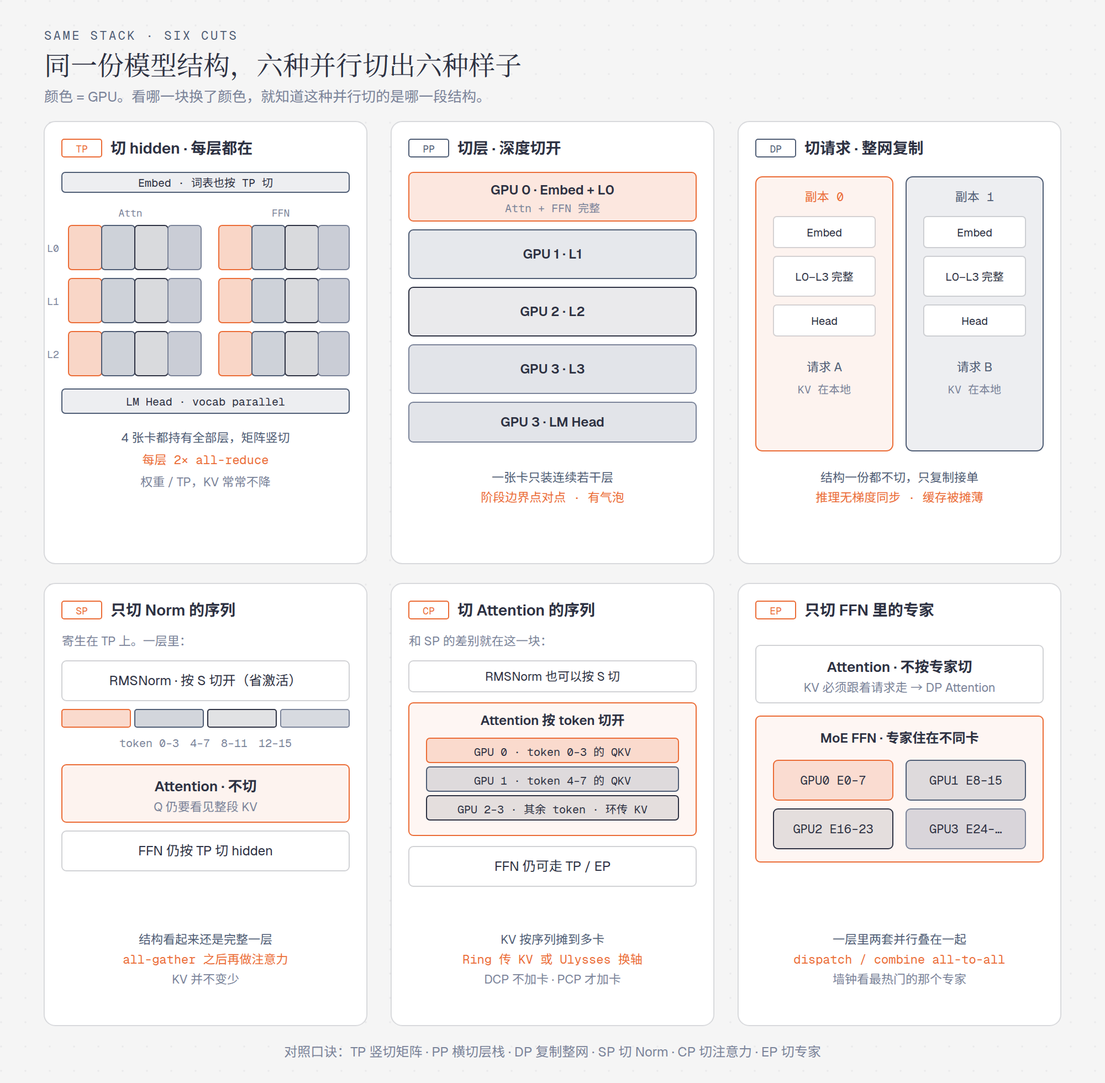
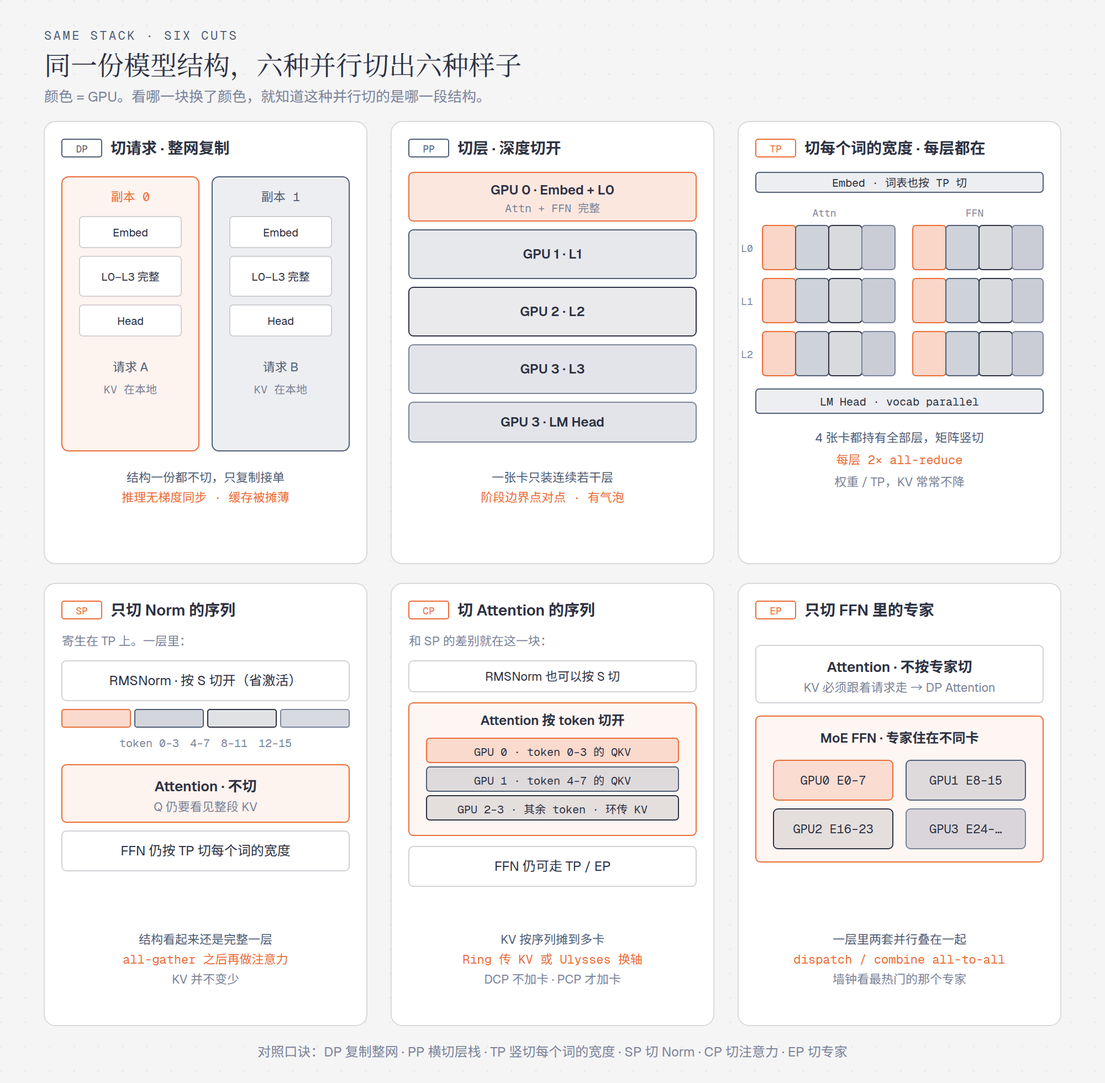
第6篇: 用 hidden/LayerNorm 图讲清 TP 与 SP，并改成由浅入深
开篇先解释每个词是一条长度为 H 的向量，再按 DP → PP → TP → SP → CP → EP 展开。新增示意图对照「TP 切宽度」和「SP 只切归一化看到的序列」。

diff --git a/diagrams/parallelism-moe/diagram-hidden-layernorm.html b/diagrams/parallelism-moe/diagram-hidden-layernorm.html
@@ -1,0 +1,104 @@
+<!DOCTYPE html>
+<html lang="zh">
+<head>
+  <meta charset="UTF-8">
+  <title>What hidden size is, and what LayerNorm sees</title>
+  <link href="https://fonts.googleapis.com/css2?family=Instrument+Serif:ital@0;1&family=Geist:wght@400;500;600&family=Geist+Mono:wght@400;500;600&display=swap" rel="stylesheet">
+  <style>
+    *,*::before,*::after{box-sizing:border-box;margin:0;padding:0}
+    body{background:#f5f5f5}.frame{width:1000px}svg{width:100%;display:block}
+  </style>
+</head>
+<body>
+  <div class="frame">
+    <svg viewBox="0 0 1000 820" xmlns="http://www.w3.org/2000/svg">
+      <defs>
+        <pattern id="dots" width="22" height="22" patternUnits="userSpaceOnUse"><circle cx="1" cy="1" r="0.9" fill="rgba(45,49,66,0.10)"/></pattern>
+        <marker id="ar" markerWidth="9" markerHeight="7" refX="7" refY="3.5" orient="auto"><polygon points="0 0, 9 3.5, 0 7" fill="#2d3142"/></marker>
+        <marker id="arA" markerWidth="9" markerHeight="7" refX="7" refY="3.5" orient="auto"><polygon points="0 0, 9 3.5, 0 7" fill="#eb6c36"/></marker>
+      </defs>
+      <rect width="100%" height="100%" fill="#f5f5f5"/>
+      <rect width="100%" height="100%" fill="url(#dots)" opacity="0.55"/>
+
+      <text x="40" y="36" fill="#4f5d75" font-size="11" font-family="'Geist Mono','Noto Sans CJK SC',monospace" letter-spacing="0.16em">HIDDEN SIZE · LAYER NORM</text>
+      <text x="40" y="70" fill="#2d3142" font-size="24" font-family="'Instrument Serif','Noto Serif CJK SC',serif">每个词是一条向量；归一化看着整段话</text>
+      <text x="40" y="96" fill="#7a8399" font-size="13" font-family="'Geist','Noto Sans CJK SC',sans-serif">TP 切的是这条向量有多宽；SP 切的是这段话有多长——而且只切归一化，不切注意力。</text>
+
+      <!-- ===== panel A: one token ===== -->
+      <rect x="40" y="116" width="920" height="268" rx="10" fill="#ffffff" stroke="rgba(45,49,66,0.16)"/>
+      <rect x="56" y="132" width="36" height="16" rx="2" fill="transparent" stroke="#eb6c36"/>
+      <text x="74" y="144" fill="#eb6c36" font-size="9" font-family="'Geist Mono','Noto Sans CJK SC',monospace" text-anchor="middle">A</text>
+      <text x="102" y="145" fill="#2d3142" font-size="15" font-weight="600" font-family="'Geist','Noto Sans CJK SC',sans-serif">一个词进来，先变成一条数字</text>
+
+      <rect x="56" y="168" width="88" height="72" rx="8" fill="rgba(235,108,54,0.08)" stroke="#eb6c36"/>
+      <text x="100" y="200" fill="#2d3142" font-size="22" font-weight="600" font-family="'Instrument Serif','Noto Serif CJK SC',serif" text-anchor="middle">猫</text>
+      <text x="100" y="222" fill="#7a8399" font-size="11" font-family="'Geist','Noto Sans CJK SC',sans-serif" text-anchor="middle">一个 token</text>
+
+      <line x1="152" y1="204" x2="196" y2="204" stroke="#2d3142" stroke-width="1.6" marker-end="url(#ar)"/>
+
+      <g font-family="'Geist Mono','Noto Sans CJK SC',monospace" font-size="10" text-anchor="middle">
+        <rect x="204" y="176" width="52" height="56" rx="5" fill="rgba(235,108,54,0.14)" stroke="#eb6c36"/><text x="230" y="209" fill="#2d3142" font-size="12">h₀</text>
+        <rect x="260" y="176" width="52" height="56" rx="5" fill="rgba(235,108,54,0.14)" stroke="#eb6c36"/><text x="286" y="209" fill="#2d3142" font-size="12">h₁</text>
+        <rect x="316" y="176" width="52" height="56" rx="5" fill="rgba(235,108,54,0.14)" stroke="#eb6c36"/><text x="342" y="209" fill="#2d3142" font-size="12">h₂</text>
+        <rect x="372" y="176" width="52" height="56" rx="5" fill="rgba(235,108,54,0.14)" stroke="#eb6c36"/><text x="398" y="209" fill="#2d3142" font-size="12">h₃</text>
+        <rect x="428" y="176" width="52" height="56" rx="5" fill="rgba(79,93,117,0.12)" stroke="#4f5d75"/><text x="454" y="209" fill="#2d3142" font-size="12">h₄</text>
+        <rect x="484" y="176" width="52" height="56" rx="5" fill="rgba(79,93,117,0.12)" stroke="#4f5d75"/><text x="510" y="209" fill="#2d3142" font-size="12">h₅</text>
+        <rect x="540" y="176" width="52" height="56" rx="5" fill="rgba(79,93,117,0.12)" stroke="#4f5d75"/><text x="566" y="209" fill="#2d3142" font-size="12">h₆</text>
+        <rect x="596" y="176" width="52" height="56" rx="5" fill="rgba(79,93,117,0.12)" stroke="#4f5d75"/><text x="622" y="209" fill="#2d3142" font-size="12">h₇</text>
+      </g>
+      <text x="426" y="252" fill="#2d3142" font-size="13" font-family="'Geist','Noto Sans CJK SC',sans-serif" text-anchor="middle">这条向量有多长，就叫 hidden size（H）</text>
+      <text x="426" y="274" fill="#7a8399" font-size="12" font-family="'Geist','Noto Sans CJK SC',sans-serif" text-anchor="middle">图里画 8 格方便看；70B 常见是 4096 或 8192</text>
+
+      <rect x="680" y="168" width="256" height="88" rx="8" fill="rgba(235,108,54,0.06)" stroke="#eb6c36"/>
+      <text x="808" y="198" fill="#2d3142" font-size="13" font-weight="600" font-family="'Geist','Noto Sans CJK SC',sans-serif" text-anchor="middle">TP 切的就是这条宽度</text>
+      <text x="808" y="220" fill="#eb6c36" font-size="12" font-family="'Geist Mono','Noto Sans CJK SC',monospace" text-anchor="middle">橙 = GPU 0　灰 = GPU 1</text>
+      <text x="808" y="240" fill="#7a8399" font-size="11" font-family="'Geist','Noto Sans CJK SC',sans-serif" text-anchor="middle">权重矩阵一边也是 H，H 越大越装不下</text>
+
+      <text x="56" y="308" fill="#4f5d75" font-size="13" font-family="'Geist','Noto Sans CJK SC',sans-serif">一批请求、一段话叠起来，激活就是 [B, S, H]：B = 同时几条请求，S = 这段话有几个词，H = 每个词那条向量有多宽。</text>
+      <text x="56" y="334" fill="#4f5d75" font-size="13" font-family="'Geist','Noto Sans CJK SC',sans-serif">线性层是「这条向量 × 一个大矩阵」。矩阵的一边等于 H，所以沿 H 切开 = 把同一层的权重摊到多张卡上。这就是 TP。</text>
+      <text x="56" y="360" fill="#7a8399" font-size="12" font-family="'Geist','Noto Sans CJK SC',sans-serif">几张卡算的是同一个词的同一层，只是每人只算向量的一段，算完要对齐一次（all-reduce）。</text>
+
+      <!-- ===== panel B: layernorm vs linear ===== -->
+      <rect x="40" y="404" width="920" height="388" rx="10" fill="#ffffff" stroke="rgba(45,49,66,0.16)"/>
+      <rect x="56" y="420" width="36" height="16" rx="2" fill="transparent" stroke="#4f5d75"/>
+      <text x="74" y="432" fill="#4f5d75" font-size="9" font-family="'Geist Mono','Noto Sans CJK SC',monospace" text-anchor="middle">B</text>
+      <text x="102" y="433" fill="#2d3142" font-size="15" font-weight="600" font-family="'Geist','Noto Sans CJK SC',sans-serif">一层里：线性层切了，归一化还拿着整段话</text>
+
+      <text x="56" y="464" fill="#7a8399" font-size="12" font-family="'Geist','Noto Sans CJK SC',sans-serif">假设这句话有 8 个词。LayerNorm / RMSNorm 几乎没有权重，却要给每个词做一次归一化，所以激活仍是「整段 × 整条向量」。</text>
+
+      <!-- token row -->
+      <text x="56" y="496" fill="#4f5d75" font-size="11" font-family="'Geist Mono','Noto Sans CJK SC',monospace" letter-spacing="0.08em">一段话 · S = 8</text>
+      <g font-family="'Geist Mono','Noto Sans CJK SC',monospace" font-size="11" text-anchor="middle">
+        <rect x="56" y="508" width="96" height="40" rx="5" fill="rgba(235,108,54,0.12)" stroke="#eb6c36"/><text x="104" y="533" fill="#2d3142">今</text>
+        <rect x="160" y="508" width="96" height="40" rx="5" fill="rgba(235,108,54,0.12)" stroke="#eb6c36"/><text x="208" y="533" fill="#2d3142">天</text>
+        <rect x="264" y="508" width="96" height="40" rx="5" fill="rgba(235,108,54,0.12)" stroke="#eb6c36"/><text x="312" y="533" fill="#2d3142">天</text>
+        <rect x="368" y="508" width="96" height="40" rx="5" fill="rgba(235,108,54,0.12)" stroke="#eb6c36"/><text x="416" y="533" fill="#2d3142">气</text>
+        <rect x="472" y="508" width="96" height="40" rx="5" fill="rgba(79,93,117,0.12)" stroke="#4f5d75"/><text x="520" y="533" fill="#2d3142">真</text>
+        <rect x="576" y="508" width="96" height="40" rx="5" fill="rgba(79,93,117,0.12)" stroke="#4f5d75"/><text x="624" y="533" fill="#2d3142">好</text>
+        <rect x="680" y="508" width="96" height="40" rx="5" fill="rgba(79,93,117,0.12)" stroke="#4f5d75"/><text x="728" y="533" fill="#2d3142">啊</text>
+        <rect x="784" y="508" width="96" height="40" rx="5" fill="rgba(79,93,117,0.12)" stroke="#4f5d75"/><text x="832" y="533" fill="#2d3142">。</text>
+      </g>
+
+      <!-- LN full -->
+      <rect x="56" y="564" width="824" height="52" rx="6" fill="rgba(235,108,54,0.06)" stroke="#eb6c36"/>
+      <text x="468" y="586" fill="#2d3142" font-size="13" font-weight="600" font-family="'Geist','Noto Sans CJK SC',sans-serif" text-anchor="middle">LayerNorm / RMSNorm · 每个词都做一次，激活仍是整段</text>
+      <text x="468" y="606" fill="#7a8399" font-size="11" font-family="'Geist','Noto Sans CJK SC',sans-serif" text-anchor="middle">几乎无权重，所以 TP 切完线性层，这里的显存还在</text>
+
+      <!-- SP split -->
+      <rect x="56" y="632" width="408" height="52" rx="6" fill="rgba(235,108,54,0.12)" stroke="#eb6c36"/>
+      <text x="260" y="654" fill="#2d3142" font-size="13" font-weight="600" font-family="'Geist','Noto Sans CJK SC',sans-serif" text-anchor="middle">SP · GPU 0 只做「今天天气」的归一化</text>
+      <text x="260" y="672" fill="#7a8399" font-size="11" font-family="'Geist Mono','Noto Sans CJK SC',monospace" text-anchor="middle">按序列切开激活</text>
+      <rect x="472" y="632" width="408" height="52" rx="6" fill="rgba(79,93,117,0.10)" stroke="#4f5d75"/>
+      <text x="676" y="654" fill="#2d3142" font-size="13" font-weight="600" font-family="'Geist','Noto Sans CJK SC',sans-serif" text-anchor="middle">SP · GPU 1 只做「真好啊。」的归一化</text>
+      <text x="676" y="672" fill="#7a8399" font-size="11" font-family="'Geist Mono','Noto Sans CJK SC',monospace" text-anchor="middle">注意力前还要拼回来</text>
+
+      <!-- Attention not cut -->
+      <rect x="56" y="700" width="824" height="52" rx="6" fill="#ffffff" stroke="rgba(45,49,66,0.28)"/>
+      <text x="468" y="722" fill="#2d3142" font-size="13" font-weight="600" font-family="'Geist','Noto Sans CJK SC',sans-serif" text-anchor="middle">Attention · SP 不进这里</text>
+      <text x="468" y="740" fill="#7a8399" font-size="12" font-family="'Geist','Noto Sans CJK SC',sans-serif" text-anchor="middle">算注意力时 Q 仍要看见整段 KV。真要把注意力按词切开，那是后面的 CP，不是 SP。</text>
+
+      <text x="500" y="778" fill="#4f5d75" font-size="12" font-family="'Geist','Noto Sans CJK SC',sans-serif" text-anchor="middle">口诀：TP 把每个词切窄　·　SP 把这段话切开，但只切归一化　·　CP 才切注意力</text>
+    </svg>
+  </div>
+</body>
+</html>

diff --git a/diagrams/parallelism-moe/diagram-taxonomy.html b/diagrams/parallelism-moe/diagram-taxonomy.html
@@ -20,18 +20,18 @@
 
       <text x="40" y="40" fill="#4f5d75" font-size="11" font-family="'Geist Mono','Noto Sans CJK SC',monospace" letter-spacing="0.16em">MODEL EXECUTOR · 六种并行</text>
       <text x="40" y="74" fill="#2d3142" font-size="26" font-family="'Instrument Serif','Noto Serif CJK SC',serif">名字都叫并行，切的不是同一维</text>
-      <text x="40" y="100" fill="#7a8399" font-size="13" font-family="'Geist','Noto Sans CJK SC',sans-serif">本篇只摊推理这六种。训练同名并行收到文末，这里不展开。</text>
+      <text x="40" y="100" fill="#7a8399" font-size="13" font-family="'Geist','Noto Sans CJK SC',sans-serif">先复制，再按层，再切层内宽度。训练同名并行收到文末，这里不展开。</text>
 
-      <!-- row 1 -->
+      <!-- row 1: simple → complex -->
       <rect x="40" y="124" width="292" height="196" rx="10" fill="#ffffff" stroke="rgba(45,49,66,0.16)"/>
-      <rect x="56" y="140" width="44" height="16" rx="2" fill="transparent" stroke="#eb6c36"/>
-      <text x="78" y="152" fill="#eb6c36" font-size="9" font-family="'Geist Mono','Noto Sans CJK SC',monospace" text-anchor="middle" letter-spacing="0.10em">TP</text>
-      <text x="110" y="153" fill="#2d3142" font-size="15" font-weight="600" font-family="'Geist','Noto Sans CJK SC',sans-serif">张量并行</text>
-      <text x="56" y="180" fill="#4f5d75" font-size="12" font-family="'Geist','Noto Sans CJK SC',sans-serif">切 hidden / 权重矩阵</text>
-      <text x="56" y="202" fill="#7a8399" font-size="11" font-family="'Geist','Noto Sans CJK SC',sans-serif">一层横着切开，含词表切分</text>
-      <text x="56" y="230" fill="#2d3142" font-size="11" font-family="'Geist Mono','Noto Sans CJK SC',monospace">通信 · 层内 all-reduce</text>
-      <text x="56" y="252" fill="#7a8399" font-size="11" font-family="'Geist','Noto Sans CJK SC',sans-serif">怕：跨节点、小消息延迟</text>
-      <text x="56" y="292" fill="#eb6c36" font-size="11" font-family="'Geist','Noto Sans CJK SC',sans-serif">问题：一张卡装不下</text>
+      <rect x="56" y="140" width="44" height="16" rx="2" fill="transparent" stroke="#4f5d75"/>
+      <text x="78" y="152" fill="#4f5d75" font-size="9" font-family="'Geist Mono','Noto Sans CJK SC',monospace" text-anchor="middle" letter-spacing="0.10em">DP</text>
+      <text x="110" y="153" fill="#2d3142" font-size="15" font-weight="600" font-family="'Geist','Noto Sans CJK SC',sans-serif">数据并行</text>
+      <text x="56" y="180" fill="#4f5d75" font-size="12" font-family="'Geist','Noto Sans CJK SC',sans-serif">切 batch / 请求</text>
+      <text x="56" y="202" fill="#7a8399" font-size="11" font-family="'Geist','Noto Sans CJK SC',sans-serif">整网复制，各接各的单</text>
+      <text x="56" y="230" fill="#2d3142" font-size="11" font-family="'Geist Mono','Noto Sans CJK SC',monospace">通信 · 推理里通常没有</text>
+      <text x="56" y="252" fill="#7a8399" font-size="11" font-family="'Geist','Noto Sans CJK SC',sans-serif">怕：前缀缓存被摊薄</text>
+      <text x="56" y="292" fill="#4f5d75" font-size="11" font-family="'Geist','Noto Sans CJK SC',sans-serif">问题：模型装得下，人太多</text>
 
       <rect x="354" y="124" width="292" height="196" rx="10" fill="#ffffff" stroke="rgba(45,49,66,0.16)"/>
       <rect x="370" y="140" width="44" height="16" rx="2" fill="transparent" stroke="#4f5d75"/>
@@ -41,17 +41,17 @@
       <text x="370" y="202" fill="#7a8399" font-size="11" font-family="'Geist','Noto Sans CJK SC',sans-serif">连续若干层交给一个阶段</text>
       <text x="370" y="230" fill="#2d3142" font-size="11" font-family="'Geist Mono','Noto Sans CJK SC',monospace">通信 · 阶段边界点对点</text>
       <text x="370" y="252" fill="#7a8399" font-size="11" font-family="'Geist','Noto Sans CJK SC',sans-serif">怕：气泡、batch=1 灌不满</text>
-      <text x="370" y="292" fill="#4f5d75" font-size="11" font-family="'Geist','Noto Sans CJK SC',sans-serif">问题：出节点做 TP 太贵</text>
+      <text x="370" y="292" fill="#4f5d75" font-size="11" font-family="'Geist','Noto Sans CJK SC',sans-serif">问题：整网太大，先按层切</text>
 
       <rect x="668" y="124" width="292" height="196" rx="10" fill="#ffffff" stroke="rgba(45,49,66,0.16)"/>
-      <rect x="684" y="140" width="44" height="16" rx="2" fill="transparent" stroke="#4f5d75"/>
-      <text x="706" y="152" fill="#4f5d75" font-size="9" font-family="'Geist Mono','Noto Sans CJK SC',monospace" text-anchor="middle" letter-spacing="0.10em">DP</text>
-      <text x="738" y="153" fill="#2d3142" font-size="15" font-weight="600" font-family="'Geist','Noto Sans CJK SC',sans-serif">数据并行</text>
-      <text x="684" y="180" fill="#4f5d75" font-size="12" font-family="'Geist','Noto Sans CJK SC',sans-serif">切 batch / 请求</text>
-      <text x="684" y="202" fill="#7a8399" font-size="11" font-family="'Geist','Noto Sans CJK SC',sans-serif">推理不梯度同步；含 DP Attention</text>
-      <text x="684" y="230" fill="#2d3142" font-size="11" font-family="'Geist Mono','Noto Sans CJK SC',monospace">通信 · 推理里通常没有</text>
-      <text x="684" y="252" fill="#7a8399" font-size="11" font-family="'Geist','Noto Sans CJK SC',sans-serif">怕：前缀缓存被摊薄</text>
-      <text x="684" y="292" fill="#4f5d75" font-size="11" font-family="'Geist','Noto Sans CJK SC',sans-serif">问题：一份模型吞吐不够</text>
+      <rect x="684" y="140" width="44" height="16" rx="2" fill="transparent" stroke="#eb6c36"/>
+      <text x="706" y="152" fill="#eb6c36" font-size="9" font-family="'Geist Mono','Noto Sans CJK SC',monospace" text-anchor="middle" letter-spacing="0.10em">TP</text>
+      <text x="738" y="153" fill="#2d3142" font-size="15" font-weight="600" font-family="'Geist','Noto Sans CJK SC',sans-serif">张量并行</text>
+      <text x="684" y="180" fill="#4f5d75" font-size="12" font-family="'Geist','Noto Sans CJK SC',sans-serif">切每个词那条向量的宽度 H</text>
+      <text x="684" y="202" fill="#7a8399" font-size="11" font-family="'Geist','Noto Sans CJK SC',sans-serif">同一层摊到多张卡，含词表切分</text>
+      <text x="684" y="230" fill="#2d3142" font-size="11" font-family="'Geist Mono','Noto Sans CJK SC',monospace">通信 · 层内 all-reduce</text>
+      <text x="684" y="252" fill="#7a8399" font-size="11" font-family="'Geist','Noto Sans CJK SC',sans-serif">怕：跨节点、小消息延迟</text>
+      <text x="684" y="292" fill="#eb6c36" font-size="11" font-family="'Geist','Noto Sans CJK SC',sans-serif">问题：一层仍然太宽</text>
 
       <!-- row 2 -->
       <rect x="40" y="340" width="292" height="196" rx="10" fill="#ffffff" stroke="rgba(45,49,66,0.16)"/>
@@ -62,7 +62,7 @@
       <text x="56" y="418" fill="#7a8399" font-size="11" font-family="'Geist','Noto Sans CJK SC',sans-serif">TP 的伴生，不是切注意力</text>
       <text x="56" y="446" fill="#2d3142" font-size="11" font-family="'Geist Mono','Noto Sans CJK SC',monospace">通信 · all-gather / RS</text>
       <text x="56" y="468" fill="#7a8399" font-size="11" font-family="'Geist','Noto Sans CJK SC',sans-serif">怕：和 Ulysses / CP 同名混淆</text>
-      <text x="56" y="508" fill="#eb6c36" font-size="11" font-family="'Geist','Noto Sans CJK SC',sans-serif">问题：TP 后激活显存仍爆</text>
+      <text x="56" y="508" fill="#eb6c36" font-size="11" font-family="'Geist','Noto Sans CJK SC',sans-serif">问题：线性层切完，Norm 还占序列</text>
 
       <rect x="354" y="340" width="292" height="196" rx="10" fill="#ffffff" stroke="rgba(45,49,66,0.16)"/>
       <rect x="370" y="356" width="44" height="16" rx="2" fill="transparent" stroke="#eb6c36"/>

diff --git a/diagrams/parallelism-moe/diagram-six-slices.html b/diagrams/parallelism-moe/diagram-six-slices.html
@@ -22,11 +22,12 @@
       <text x="40" y="68" fill="#2d3142" font-size="24" font-family="'Instrument Serif','Noto Serif CJK SC',serif">同一份模型结构，六种并行切出六种样子</text>
       <text x="40" y="92" fill="#7a8399" font-size="13" font-family="'Geist','Noto Sans CJK SC',sans-serif">颜色 = GPU。看哪一块换了颜色，就知道这种并行切的是哪一段结构。</text>
 
-      <!-- ========== TP ========== -->
+      <!-- ========== TP（画在第三列，对应「一层仍然太宽」） ========== -->
+      <g transform="translate(628,0)">
       <rect x="40" y="110" width="292" height="400" rx="10" fill="#ffffff" stroke="rgba(45,49,66,0.16)"/>
       <rect x="56" y="126" width="36" height="16" rx="2" fill="transparent" stroke="#eb6c36"/>
       <text x="74" y="138" fill="#eb6c36" font-size="9" font-family="'Geist Mono','Noto Sans CJK SC',monospace" text-anchor="middle">TP</text>
-      <text x="100" y="139" fill="#2d3142" font-size="14" font-weight="600" font-family="'Geist','Noto Sans CJK SC',sans-serif">切 hidden · 每层都在</text>
+      <text x="100" y="139" fill="#2d3142" font-size="14" font-weight="600" font-family="'Geist','Noto Sans CJK SC',sans-serif">切每个词的宽度 · 每层都在</text>
       <rect x="56" y="156" width="260" height="18" rx="3" fill="rgba(79,93,117,0.10)" stroke="#4f5d75"/>
       <text x="186" y="169" fill="#2d3142" font-size="10" font-family="'Geist Mono','Noto Sans CJK SC',monospace" text-anchor="middle">Embed · 词表也按 TP 切</text>
       <!-- 4 layers, each attn/ffn with 4 vertical stripes -->
@@ -70,6 +71,7 @@
       <text x="186" y="400" fill="#4f5d75" font-size="11" font-family="'Geist','Noto Sans CJK SC',sans-serif" text-anchor="middle">4 张卡都持有全部层，矩阵竖切</text>
       <text x="186" y="420" fill="#eb6c36" font-size="11" font-family="'Geist Mono','Noto Sans CJK SC',monospace" text-anchor="middle">每层 2× all-reduce</text>
       <text x="186" y="440" fill="#7a8399" font-size="11" font-family="'Geist','Noto Sans CJK SC',sans-serif" text-anchor="middle">权重 / TP，KV 常常不降</text>
+      </g>
 
       <!-- ========== PP ========== -->
       <rect x="354" y="110" width="292" height="400" rx="10" fill="#ffffff" stroke="rgba(45,49,66,0.16)"/>
@@ -90,7 +92,8 @@
       <text x="500" y="436" fill="#4f5d75" font-size="11" font-family="'Geist','Noto Sans CJK SC',sans-serif" text-anchor="middle">一张卡只装连续若干层</text>
       <text x="500" y="454" fill="#eb6c36" font-size="11" font-family="'Geist Mono','Noto Sans CJK SC',monospace" text-anchor="middle">阶段边界点对点 · 有气泡</text>
 
-      <!-- ========== DP ========== -->
+      <!-- ========== DP（画在第一列，对应「先复制」） ========== -->
+      <g transform="translate(-628,0)">
       <rect x="668" y="110" width="292" height="400" rx="10" fill="#ffffff" stroke="rgba(45,49,66,0.16)"/>
       <rect x="684" y="126" width="36" height="16" rx="2" fill="transparent" stroke="#4f5d75"/>
       <text x="702" y="138" fill="#4f5d75" font-size="9" font-family="'Geist Mono','Noto Sans CJK SC',monospace" text-anchor="middle">DP</text>
@@ -118,6 +121,7 @@
       <text x="882" y="356" fill="#7a8399" font-size="10" font-family="'Geist Mono','Noto Sans CJK SC',monospace" text-anchor="middle">KV 在本地</text>
       <text x="814" y="436" fill="#4f5d75" font-size="11" font-family="'Geist','Noto Sans CJK SC',sans-serif" text-anchor="middle">结构一份都不切，只复制接单</text>
       <text x="814" y="454" fill="#eb6c36" font-size="11" font-family="'Geist Mono','Noto Sans CJK SC',monospace" text-anchor="middle">推理无梯度同步 · 缓存被摊薄</text>
+      </g>
 
       <!-- ========== SP ========== -->
       <rect x="40" y="528" width="292" height="400" rx="10" fill="#ffffff" stroke="rgba(45,49,66,0.16)"/>
@@ -138,7 +142,7 @@
       <text x="186" y="716" fill="#2d3142" font-size="13" font-weight="600" font-family="'Geist','Noto Sans CJK SC',sans-serif" text-anchor="middle">Attention · 不切</text>
       <text x="186" y="734" fill="#7a8399" font-size="11" font-family="'Geist','Noto Sans CJK SC',sans-serif" text-anchor="middle">Q 仍要看见整段 KV</text>
       <rect x="56" y="752" width="260" height="36" rx="4" fill="#ffffff" stroke="rgba(45,49,66,0.22)"/>
-      <text x="186" y="774" fill="#2d3142" font-size="12" font-family="'Geist','Noto Sans CJK SC',sans-serif" text-anchor="middle">FFN 仍按 TP 切 hidden</text>
+      <text x="186" y="774" fill="#2d3142" font-size="12" font-family="'Geist','Noto Sans CJK SC',sans-serif" text-anchor="middle">FFN 仍按 TP 切每个词的宽度</text>
       <text x="186" y="854" fill="#4f5d75" font-size="11" font-family="'Geist','Noto Sans CJK SC',sans-serif" text-anchor="middle">结构看起来还是完整一层</text>
       <text x="186" y="872" fill="#eb6c36" font-size="11" font-family="'Geist Mono','Noto Sans CJK SC',monospace" text-anchor="middle">all-gather 之后再做注意力</text>
       <text x="186" y="890" fill="#7a8399" font-size="11" font-family="'Geist','Noto Sans CJK SC',sans-serif" text-anchor="middle">KV 并不变少</text>
@@ -187,7 +191,7 @@
       <text x="814" y="872" fill="#eb6c36" font-size="11" font-family="'Geist Mono','Noto Sans CJK SC',monospace" text-anchor="middle">dispatch / combine all-to-all</text>
       <text x="814" y="890" fill="#7a8399" font-size="11" font-family="'Geist','Noto Sans CJK SC',sans-serif" text-anchor="middle">墙钟看最热门的那个专家</text>
 
-      <text x="500" y="956" fill="#7a8399" font-size="12" font-family="'Geist','Noto Sans CJK SC',sans-serif" text-anchor="middle">对照口诀：TP 竖切矩阵 · PP 横切层栈 · DP 复制整网 · SP 切 Norm · CP 切注意力 · EP 切专家</text>
+      <text x="500" y="956" fill="#7a8399" font-size="12" font-family="'Geist','Noto Sans CJK SC',sans-serif" text-anchor="middle">对照口诀：DP 复制整网 · PP 横切层栈 · TP 竖切每个词的宽度 · SP 切 Norm · CP 切注意力 · EP 切专家</text>
     </svg>
   </div>
 </body>

diff --git a/diagrams/parallelism-moe/diagram-model-backbone.html b/diagrams/parallelism-moe/diagram-model-backbone.html
@@ -32,7 +32,7 @@
         <rect x="196" y="118" width="70" height="36" rx="6" fill="#ffffff" stroke="rgba(45,49,66,0.28)"/>
         <text x="231" y="141" fill="#2d3142" text-anchor="middle">H</text>
       </g>
-      <text x="280" y="141" fill="#4f5d75" font-size="13" font-family="'Geist','Noto Sans CJK SC',sans-serif">B = 请求数　S = 序列长度　H = hidden</text>
+      <text x="280" y="141" fill="#4f5d75" font-size="13" font-family="'Geist','Noto Sans CJK SC',sans-serif">B = 请求数　S = 这段话有多长　H = 每个词那条向量有多宽</text>
 
       <!-- stack -->
       <rect x="40" y="172" width="920" height="310" rx="10" fill="#ffffff" stroke="rgba(45,49,66,0.16)"/>
